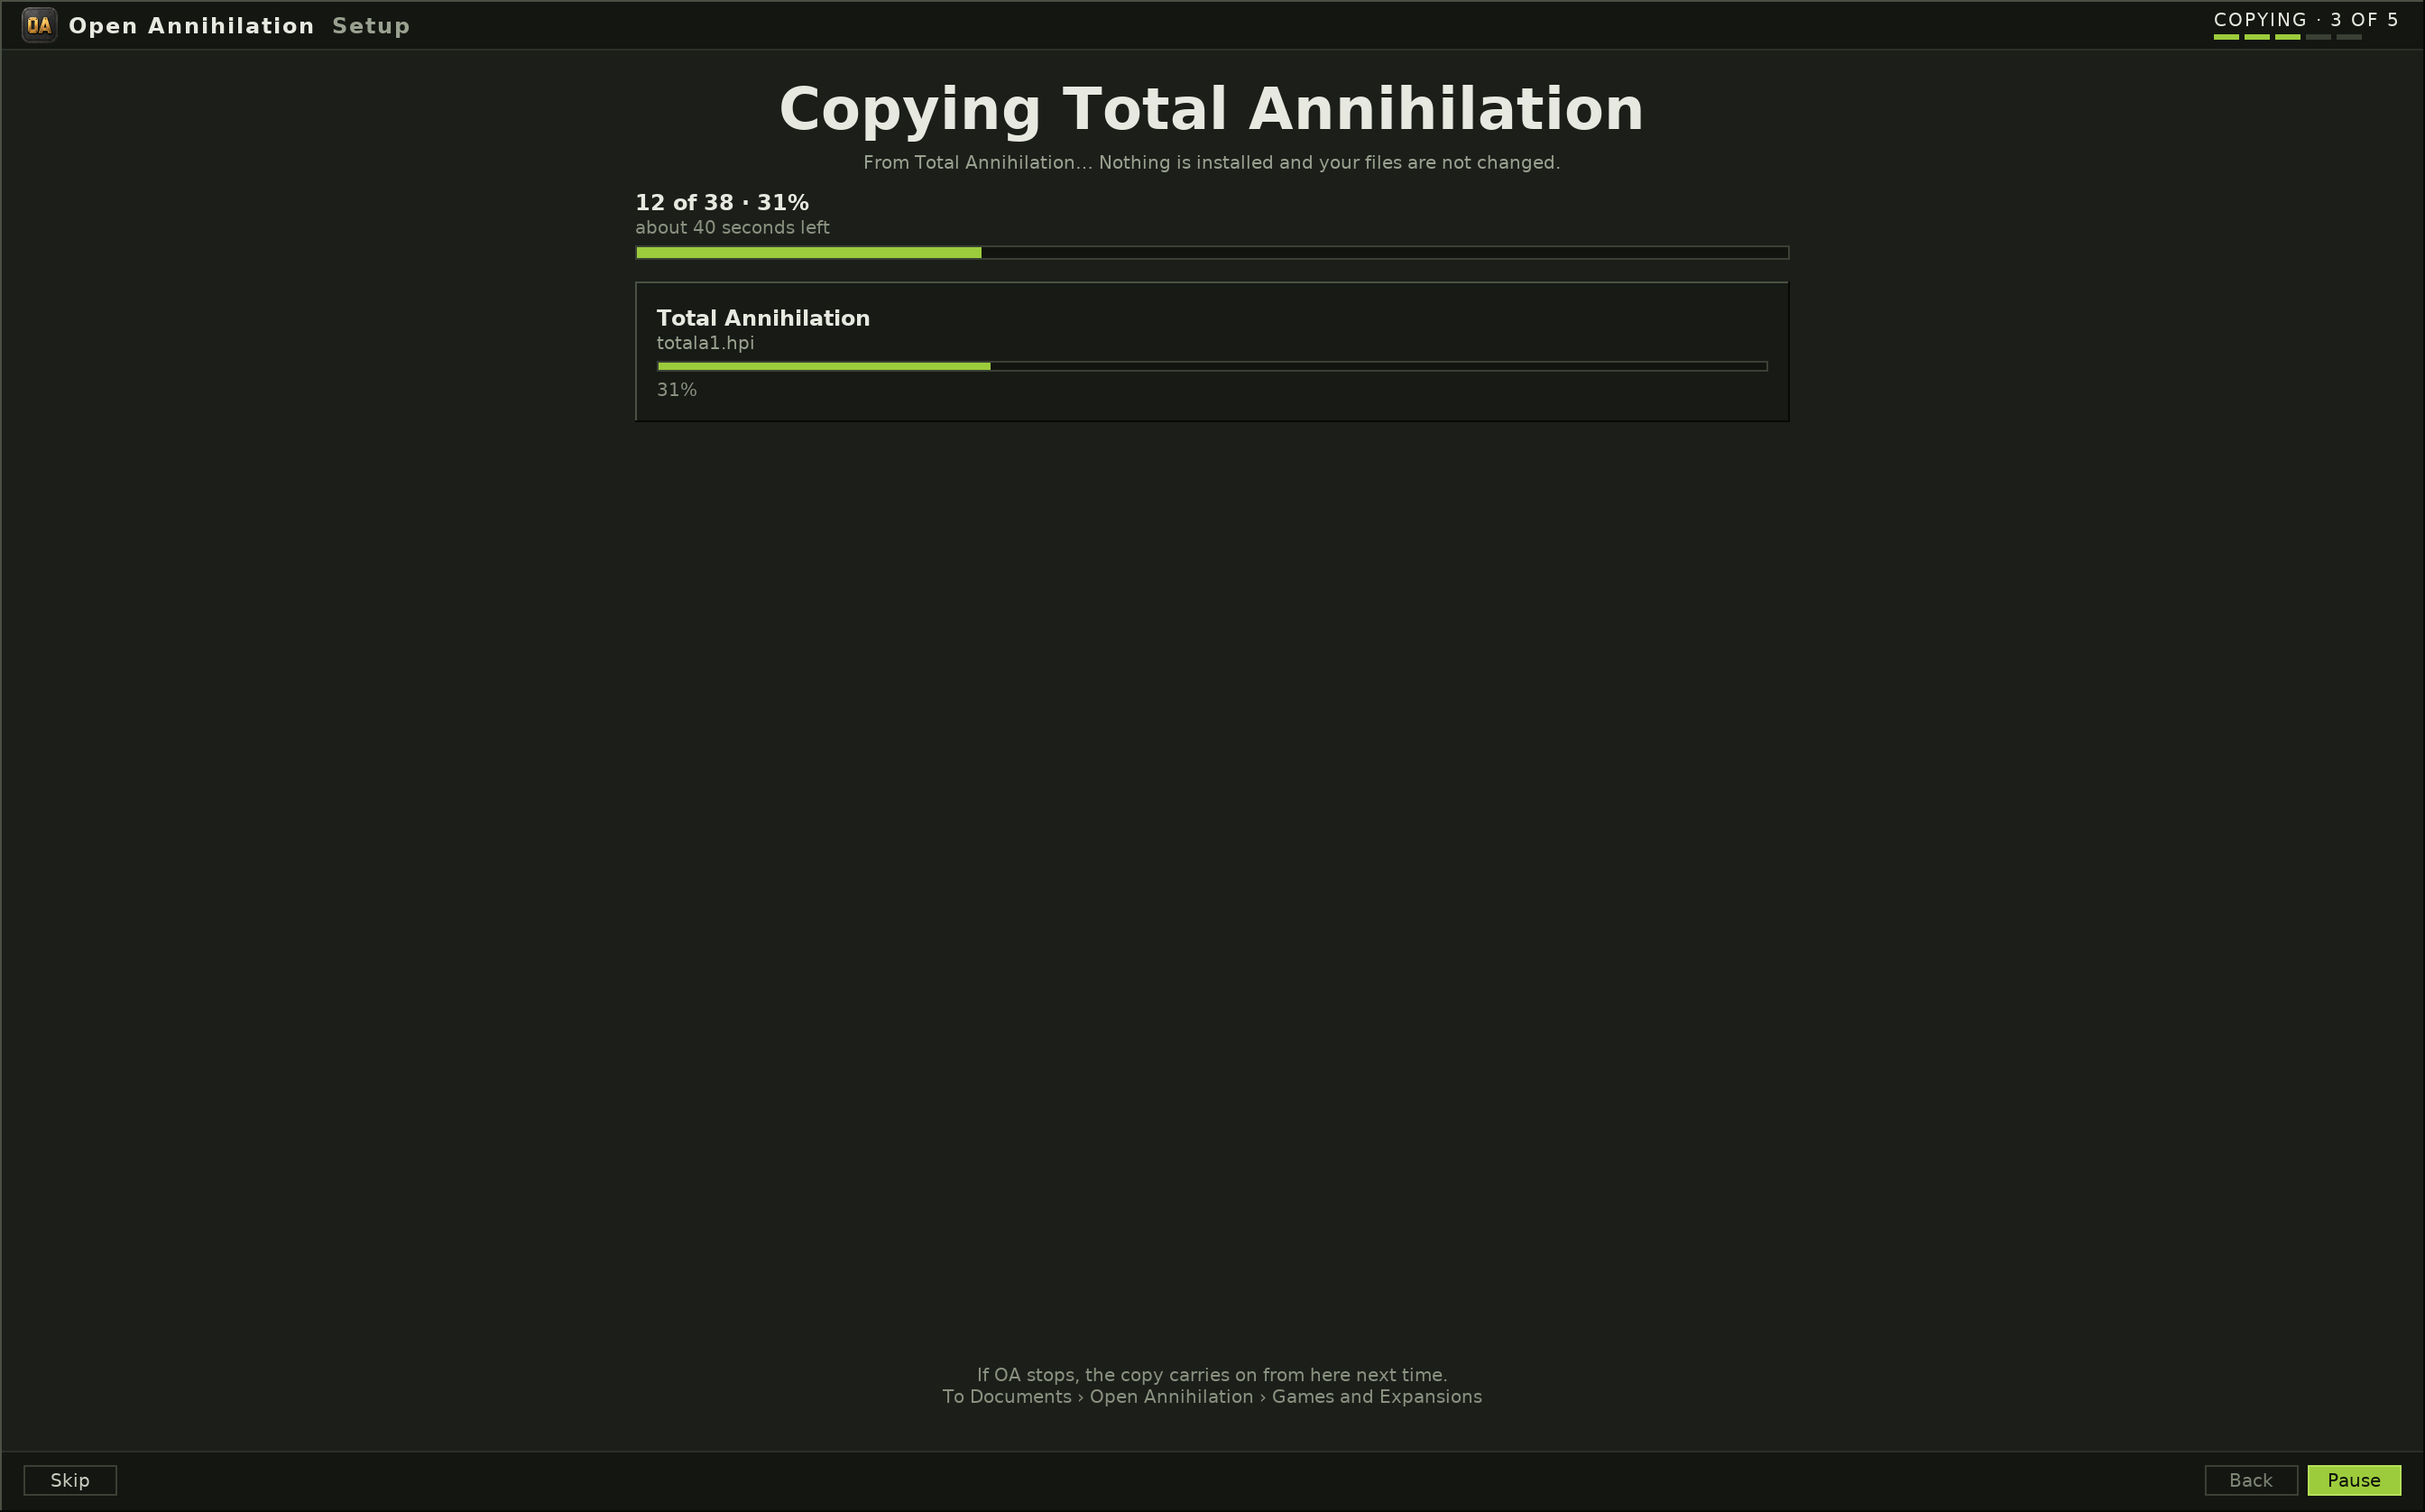
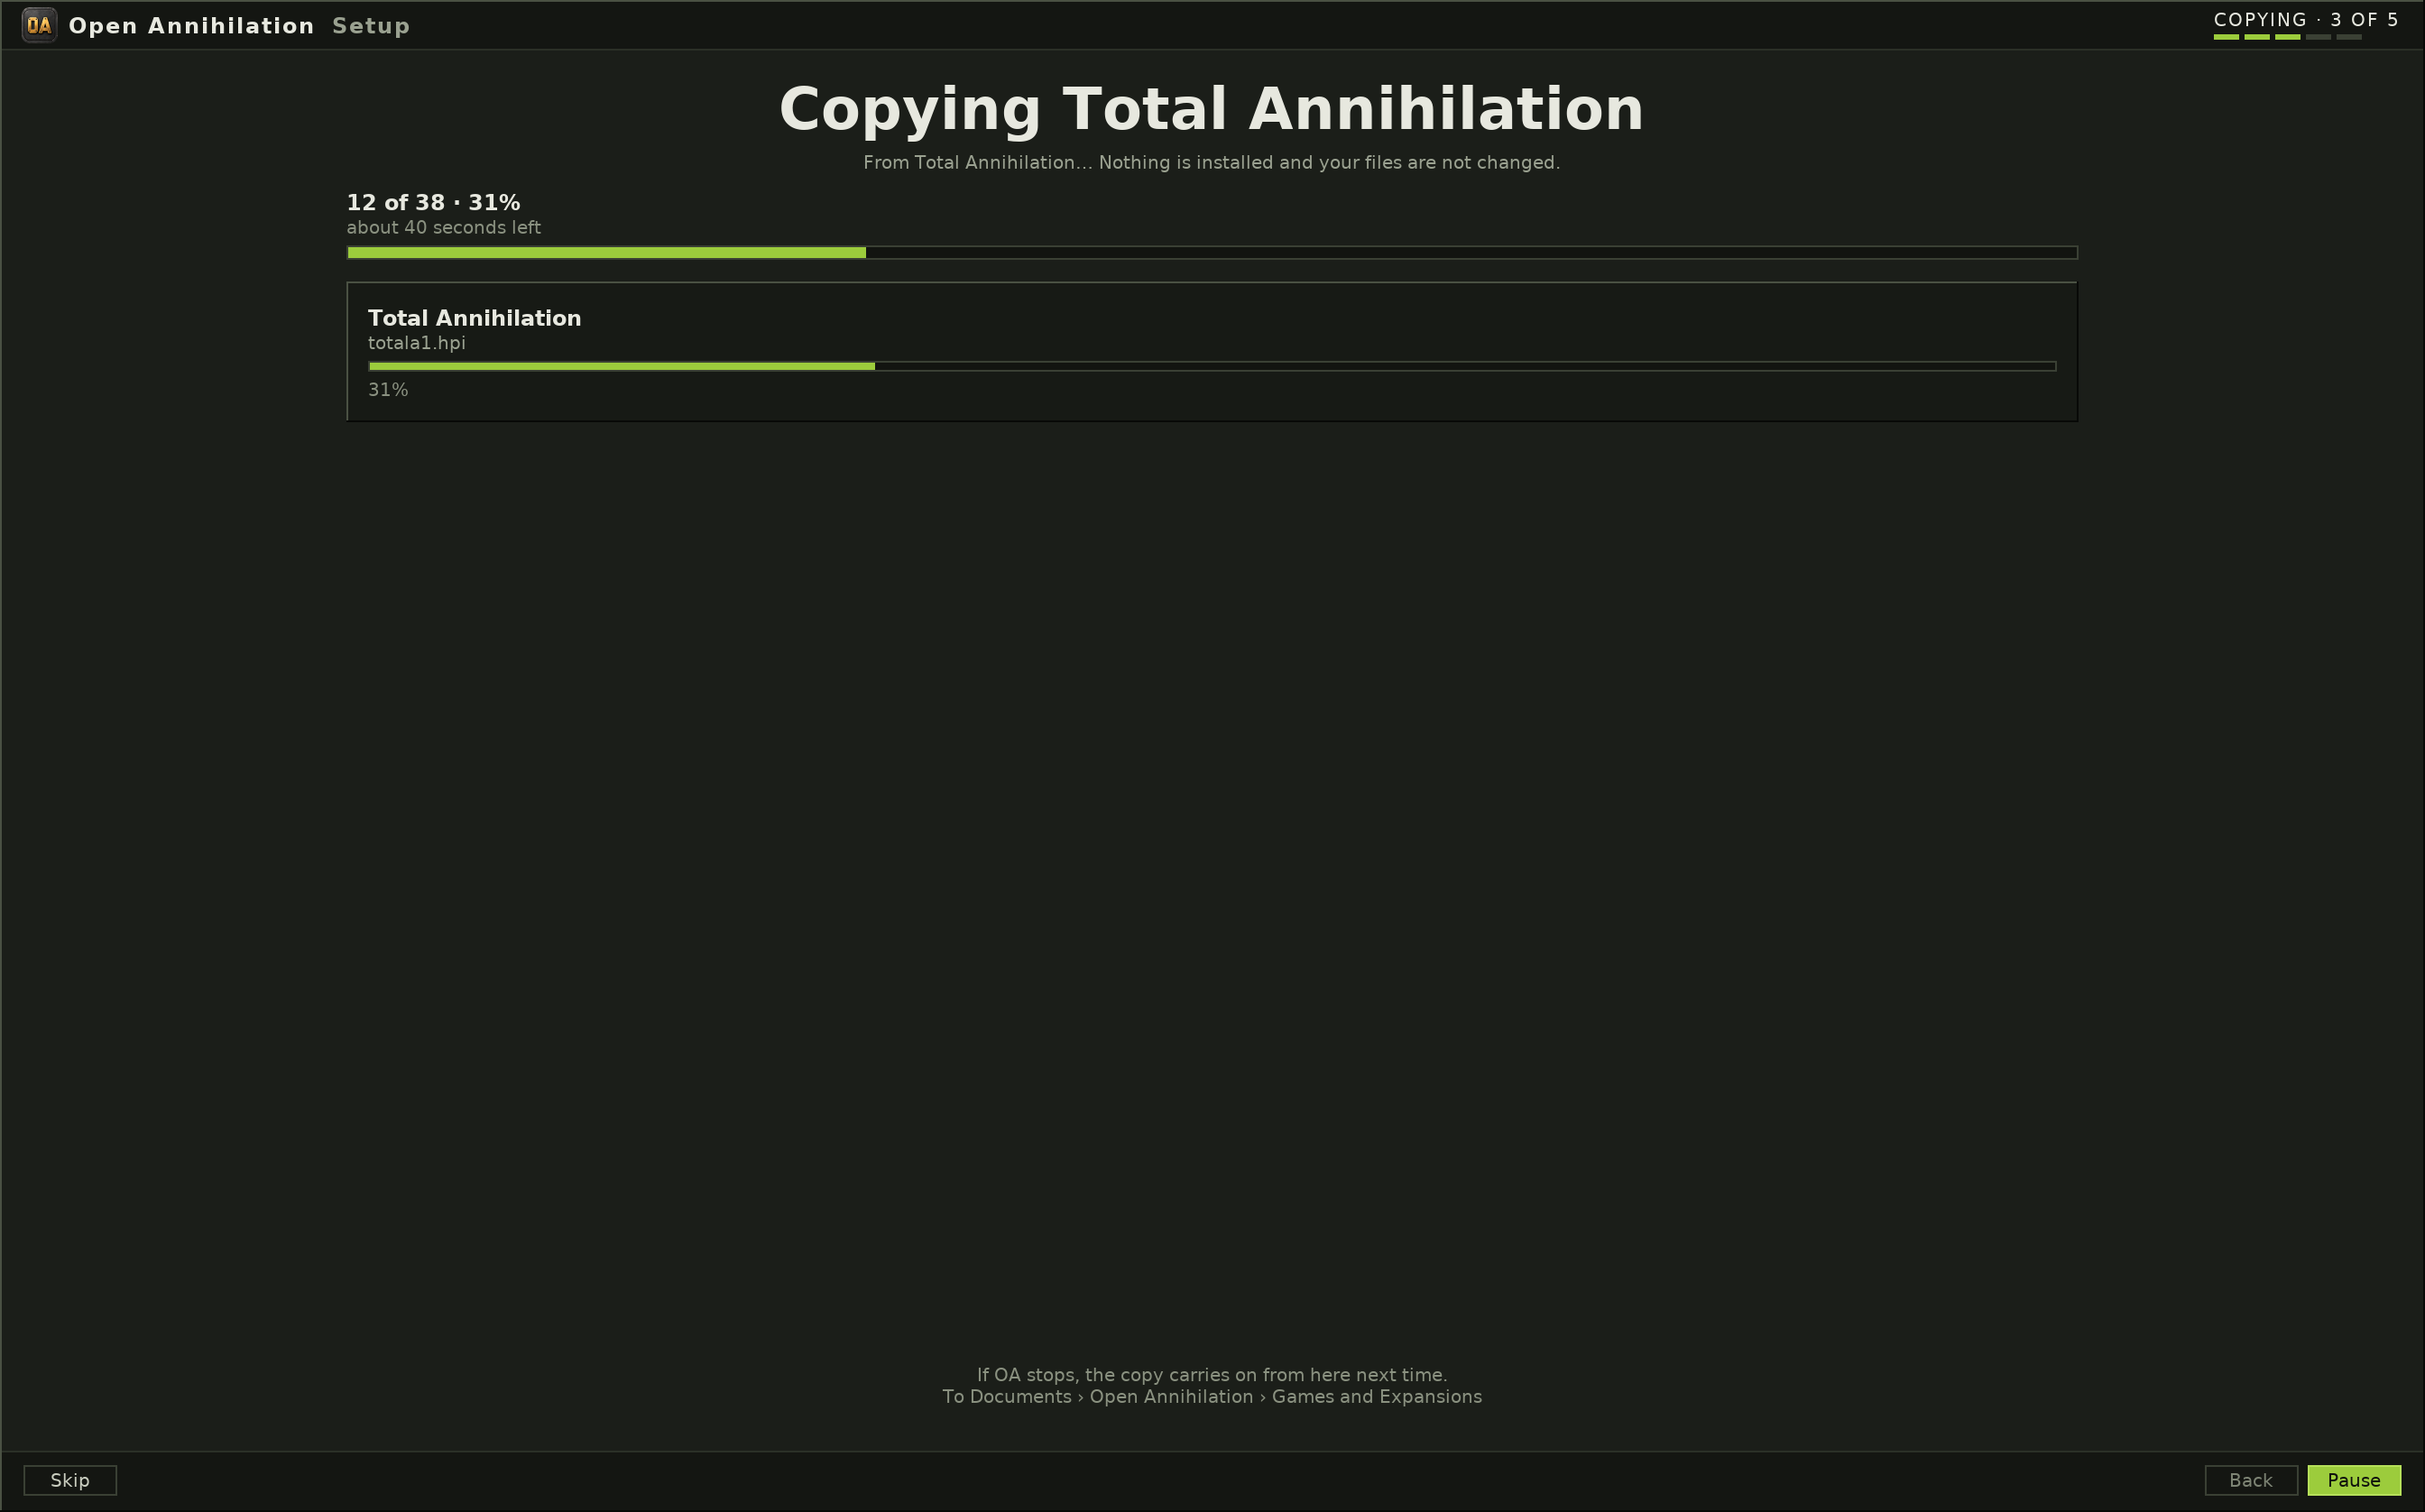
(fix) Give the copying step the game step's column
The copying step laid its bar and its bundles out in a column of its
own, 640 points wide and the whole band at Compact, while the game step
before it used Settings' width centred in the band, so the column
jumped between two steps of one walk. The copying step now uses the
same column, and the manual's pictures of it are drawn again.

Changed region(s): [[0.125, 0.1241, 0.3438, 0.2482], [0.3438, 0.1551, 0.4062, 0.1862], [0.375, 0.2172, 0.4062, 0.2482]]

diff --git a/src/ui/first-run/src/screen.cpp b/src/ui/first-run/src/screen.cpp
@@ -1282,8 +1282,9 @@ void lay_copying(
     std::vector<kit::ControlId> order;
     add_chrome(scene, order, session, width, height, false, true, nullptr);
     const Band band = content_band(width, height);
-    const bool narrow = frame.size_class == kit::SizeClass::compact || band.width < 520;
-    int32_t column = narrow ? band.width : std::min(band.width, int32_t{640});
+    // The column is the game step's: Settings' width, centred in the band.
+    const kit::Metrics& metrics = kit::metrics_of(frame.size_class);
+    const int32_t column = std::min(band.width, metrics.dialog_width);
     const int32_t left = band.left + std::max((band.width - column) / 2, int32_t{0});
     const CopyView& copy = session.model.copy;
 

diff --git a/docs/first-run.md b/docs/first-run.md
@@ -132,7 +132,8 @@ Annihilation, and that the installation is left as it is.
 
 The page word is Setup, the step is COPYING, and the count is 3 of 5. The
 title is "Copying Total Annihilation". Under it, a line says where the
-bytes are read from. The overall count is the files this copy takes from
+bytes are read from. The column is the game step's, as wide as Settings.
+The overall count is the files this copy takes from
 this source. A file the source does not hold is not in that count, so a
 finished copy reads 100%. The bundles the source holds sit in a panel
 under the bar. A bundle the source does not hold is not listed. While a
